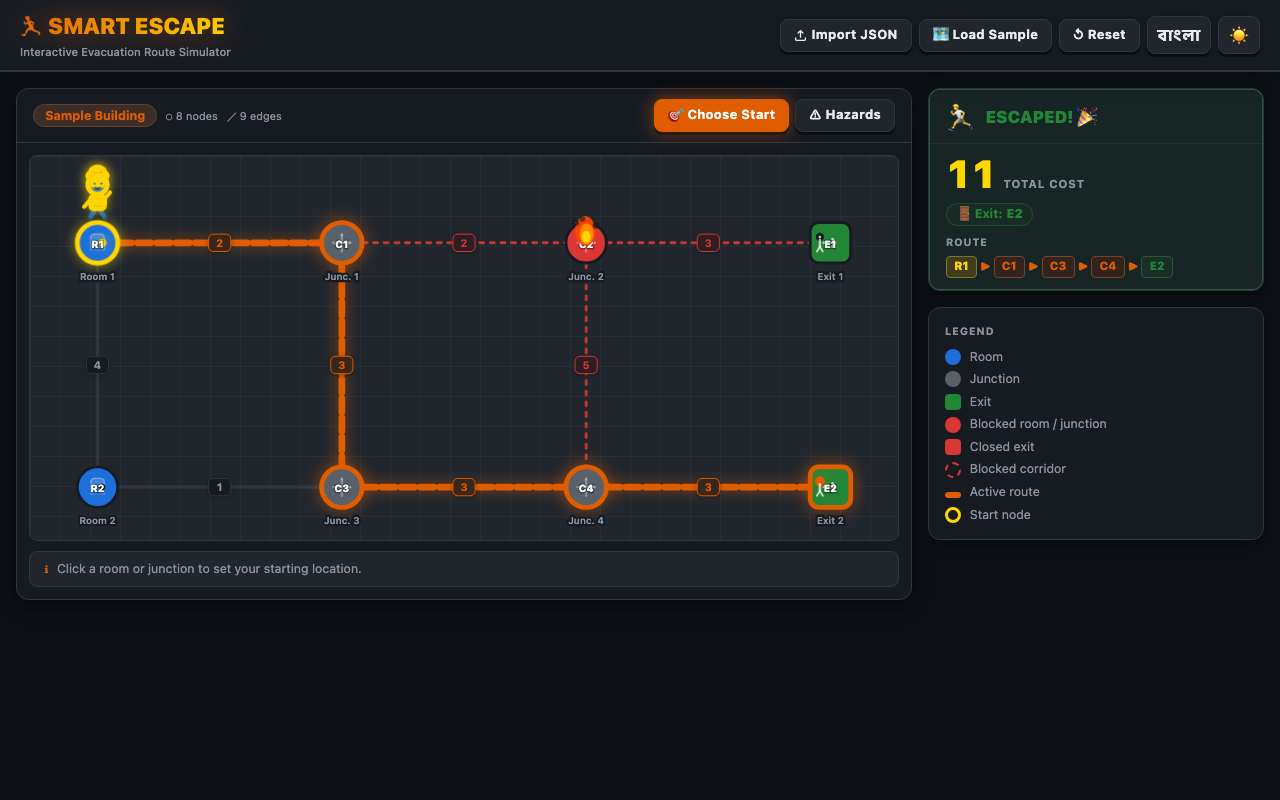
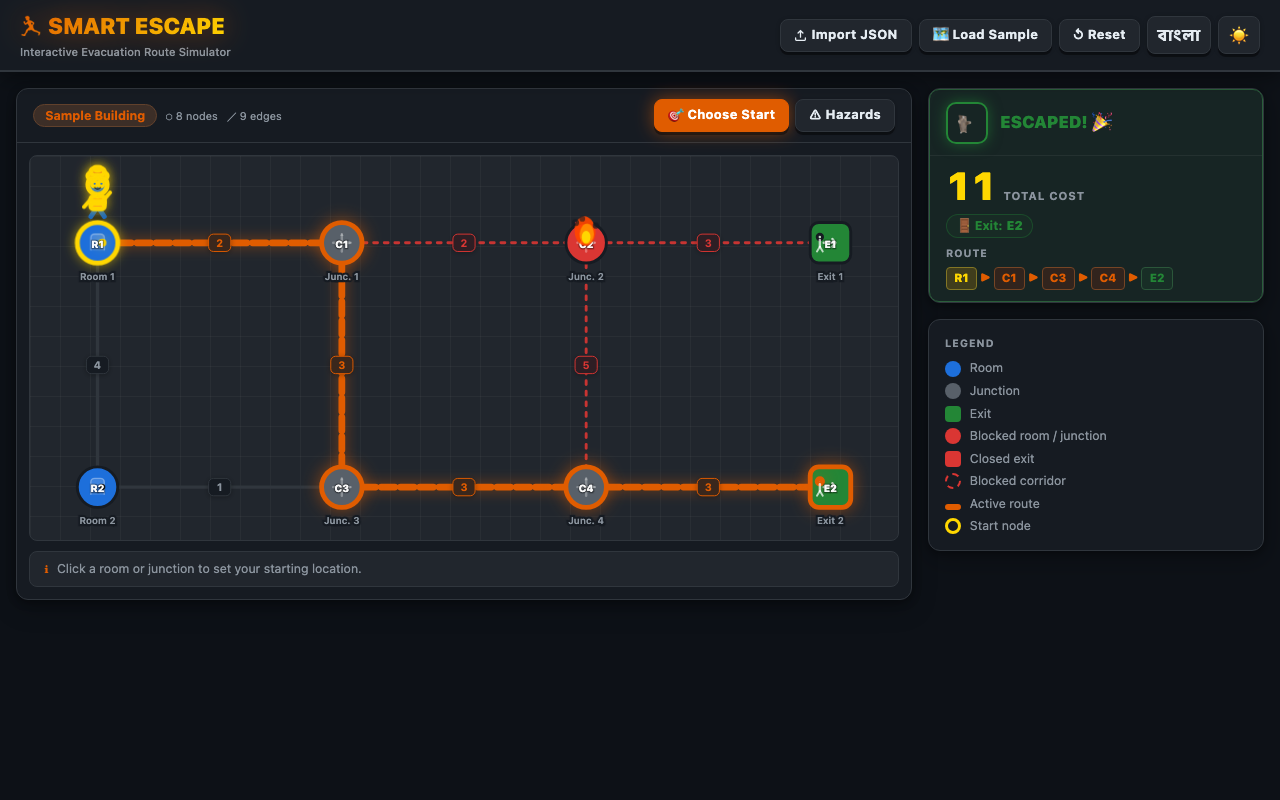
Add panic cat and happy cat gifs to result cards. Prompt: Use panic cat gif when no route/danger and happy cat gif when route is available

Changed region(s): [[0.7188, 0.125, 1.0, 0.6875]]

diff --git a/index.html b/index.html
@@ -299,13 +299,30 @@ body.haz-mode .edge line.hit{cursor:crosshair}
   border-left:3px solid var(--bad);
 }
 
-.info-hint{
-  font-size:.75rem;color:var(--ink2);line-height:1.45;
-  background:var(--surf2);border-radius:6px;padding:.45rem .65rem;
-  border-left:3px solid var(--room);
+.cat-avatar{
+  width:42px;height:42px;
+  border-radius:10px;
+  object-fit:cover;
+  border:2px solid var(--border);
+  box-shadow:0 3px 10px rgba(0,0,0,.35);
+  flex-shrink:0;
+  vertical-align:middle;
+}
+.res-card.ok .cat-avatar{
+  border-color:var(--exit);
+  box-shadow:0 0 14px var(--glow-g);
+}
+.res-card.fail .cat-avatar{
+  border-color:var(--bad);
+  box-shadow:0 0 16px var(--glow-b);
+  animation:cat-panic .45s ease-in-out infinite alternate;
+}
+@keyframes cat-panic{
+  from{transform:rotate(-3deg) scale(1)}
+  to{transform:rotate(3deg) scale(1.05)}
 }
 
-.res-hd{padding:.7rem 1rem;display:flex;align-items:center;gap:.6rem;border-bottom:1px solid rgba(255,255,255,.06)}
+.res-hd{padding:.7rem 1rem;display:flex;align-items:center;gap:.75rem;border-bottom:1px solid rgba(255,255,255,.06)}
 .res-icon{font-size:1.9rem;line-height:1}
 .res-title{font-size:1.05rem;font-weight:900;letter-spacing:.01em}
 .res-title.ok-c  {color:var(--exit)}
@@ -744,7 +761,10 @@ function renderRes(r){
       const cls=p===start?"s-chip":i===r.path.length-1?"e-chip":"r-chip";
       return`<span class="chip ${cls}">${esc(p)}</span>${i<r.path.length-1?'<span class="arr">▶</span>':""}`}).join("");
     el.innerHTML=`<div class="res-card ok">
-      <div class="res-hd"><span class="res-icon">🏃</span><span class="res-title ok-c">${esc(t("escaped"))}</span></div>
+      <div class="res-hd">
+        <img src="Resources/happy-cat.gif" alt="Happy Cat" class="cat-avatar" onerror="this.outerHTML='<span class=\'res-icon\'>🏃</span>'">
+        <span class="res-title ok-c">${esc(t("escaped"))}</span>
+      </div>
       <div class="res-body">
         <div class="cost-row"><span class="cost-num">${r.cost}</span><span class="cost-unit">${esc(t("cost"))}</span></div>
         <div class="exit-tag">🚪 ${esc(t("exitL"))}: <b>${esc(r.exit)}</b></div>
@@ -754,7 +774,10 @@ function renderRes(r){
   } else if(r.status==="startBlocked"){
     el.innerHTML=`<div class="res-card fail">
       <div class="hazard-tape"></div>
-      <div class="res-hd"><span class="res-icon alarm-anim">🚨</span><span class="res-title fail-c">${esc(t("danger"))}</span></div>
+      <div class="res-hd">
+        <img src="Resources/panic-cat.gif" alt="Panic Cat" class="cat-avatar" onerror="this.outerHTML='<span class=\'res-icon alarm-anim\'>🔥</span>'">
+        <span class="res-title fail-c">${esc(t("danger"))}</span>
+      </div>
       <div class="res-body">
         <div class="fail-badge">⚠ ${esc(t("alertBadge"))}</div>
         <div class="fail-main-msg">${esc(t("startBlocked"))}</div>
@@ -765,7 +788,10 @@ function renderRes(r){
   } else if(r.status==="noRoute"){
     el.innerHTML=`<div class="res-card fail">
       <div class="hazard-tape"></div>
-      <div class="res-hd"><span class="res-icon alarm-anim">🚨</span><span class="res-title fail-c">${esc(t("no_route"))}</span></div>
+      <div class="res-hd">
+        <img src="Resources/panic-cat.gif" alt="Panic Cat" class="cat-avatar" onerror="this.outerHTML='<span class=\'res-icon alarm-anim\'>🚨</span>'">
+        <span class="res-title fail-c">${esc(t("no_route"))}</span>
+      </div>
       <div class="res-body">
         <div class="fail-badge">⚠ ${esc(t("alertBadge"))}</div>
         <div class="fail-main-msg">${esc(t("noRoute"))}</div>
